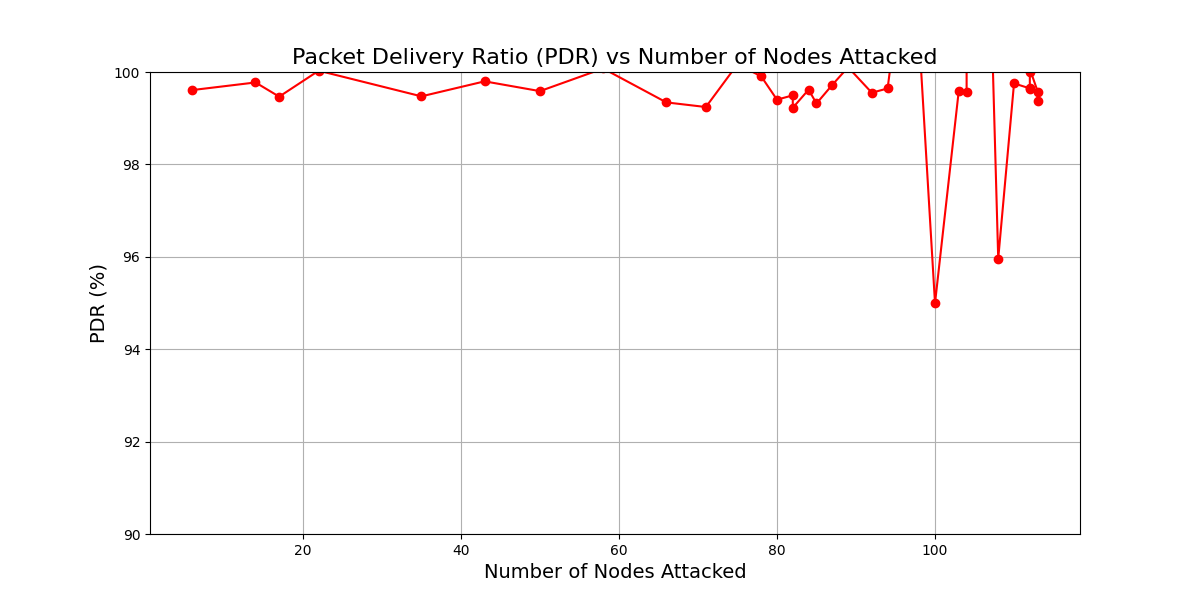
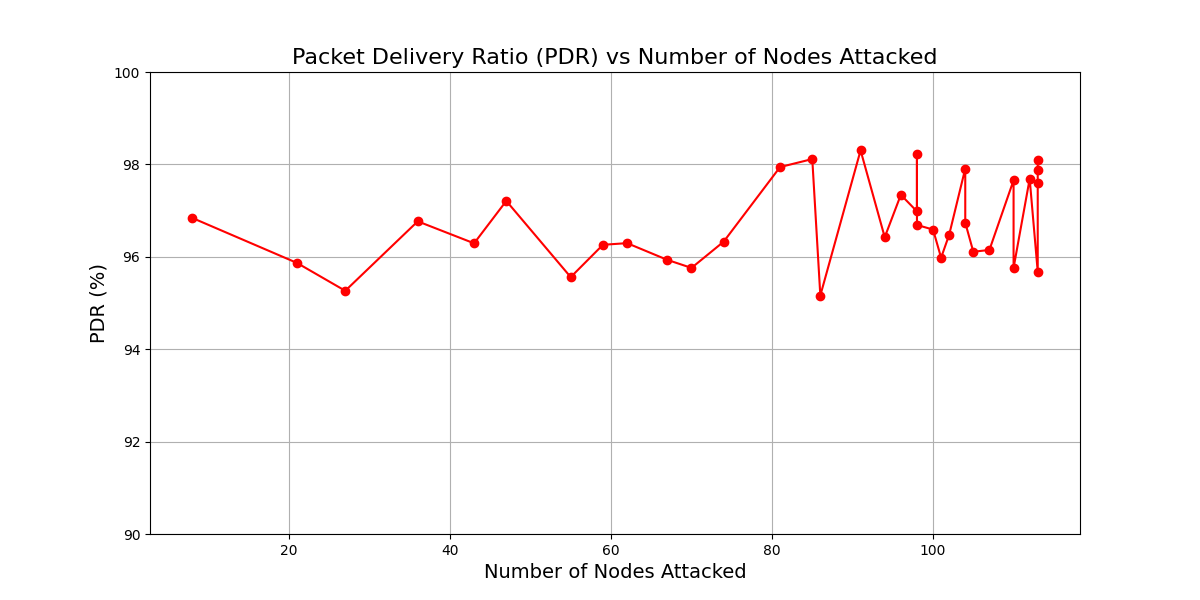
th tests

diff --git a/th_tester.py b/th_tester.py
@@ -1,15 +1,11 @@
-import networkx as nx
-import matplotlib.pyplot as plt
-import random
-from queue import PriorityQueue
-import os
-from mpl_toolkits.mplot3d import Axes3D
-import argparse
 import numpy as np
+import matplotlib.pyplot as plt
+from mpl_toolkits.mplot3d import Axes3D
+import os
+from queue import PriorityQueue
+import random
 
-from graph_helpers import read_adjacency_matrices, find_shortest_path, visualize_domains, deactivate_node, calculate_packet_delivery_ratio, find_node_disjoint_path, add_node_disjoint_path
-
-plt.switch_backend('TkAgg')
+from graph_helpers import read_adjacency_matrices, find_shortest_path, deactivate_node, calculate_packet_delivery_ratio, find_node_disjoint_path, add_node_disjoint_path
 
 def run_simulation(file_path, start_node, destination_node, duration, num_attacks, th_1=98.0, decrease_range=(1, 10), test_nodes=None):
     network_graph = read_adjacency_matrices(file_path)
@@ -28,7 +24,7 @@ def run_simulation(file_path, start_node, destination_node, duration, num_attack
 
     for t in range(duration):
         print(f"Attack #{t // attacks_per_interval + 1}")
-        
+
         # Attack a specified set of nodes if test_nodes is set, otherwise choose randomly
         if t % attacks_per_interval == 0:
             if test_nodes and t // attacks_per_interval < len(test_nodes):
@@ -48,8 +44,7 @@ def run_simulation(file_path, start_node, destination_node, duration, num_attack
             new_pdr = calculate_packet_delivery_ratio(network_graph, [initial_path])
             new_pdr = initial_pdr - (initial_pdr - new_pdr)
             new_pdr2 = None
-
-            if new_pdr < th_1:
+            if new_pdr < th_1: # this is wrongggggggggggggggggggg!!!!!!!!!!!
                 current_paths, initial_pdr, new_pdr2 = adapt_to_attack(network_graph, start_node, destination_node, current_paths, th_1, new_pdr)
 
             if not current_paths.empty():
@@ -59,6 +54,8 @@ def run_simulation(file_path, start_node, destination_node, duration, num_attack
 
         # Record PDR value at each second
         pdr_values_time.append(new_pdr)
+        # if new_pdr2:
+        #     pdr_values_time.append(new_pdr2)
 
         # Record PDR value after each attack based on the number of attacked nodes
         if t % attacks_per_interval == 0:
@@ -70,8 +67,8 @@ def adapt_to_attack(graph, start_node, destination_node, current_paths, th_1, ne
     paths = []
     while not current_paths.empty():
         paths.append(current_paths.get()[1])    
-
-    if new_pdr < th_1:
+    
+    while new_pdr < th_1:
         new_path = find_node_disjoint_path(graph, start_node, destination_node, paths[0])
         if new_path:
             paths[-1] = new_path
@@ -87,65 +84,12 @@ def adapt_to_attack(graph, start_node, destination_node, current_paths, th_1, ne
                 print(f"Added path: {path} new_pdr: {new_pdr}")
             print(current_paths.qsize())
         
+        if new_pdr >= th_1:
+            break
 
     return current_paths, new_pdr, new_pdr
 
-def plot_pdr_over_time(pdr_values, num_nodes):
-    x_values = list(range(len(pdr_values)))
-    
-    plt.figure(figsize=(12, 6))
-    plt.plot(x_values, pdr_values, marker='o', linestyle='-', color='b')
-    plt.title('Packet Delivery Ratio (PDR) Over Time', fontsize=16)
-    plt.xlabel('Time (seconds)', fontsize=14)
-    plt.ylabel('PDR (%)', fontsize=14)
-    plt.ylim(90, 100)
-    plt.grid(True)
-    filename = f'results/pdr_over_time_{num_nodes}.png'
-    plt.savefig(filename)
-    #plt.show()
-
-def plot_pdr_vs_attacks(pdr_values_attack, num_nodes):
-    attacked_nodes, pdr_values = zip(*pdr_values_attack)
-    plt.figure(figsize=(12, 6))
-    plt.plot(attacked_nodes, pdr_values, marker='o', linestyle='-', color='r')
-    plt.title('Packet Delivery Ratio (PDR) vs Number of Nodes Attacked', fontsize=16)
-    plt.xlabel('Number of Nodes Attacked', fontsize=14)
-    plt.ylabel('PDR (%)', fontsize=14)
-    plt.ylim(90, 100)
-    plt.grid(True)
-    filename = f'results/pdr_vs_attacks_{num_nodes}.png'
-    plt.savefig(filename)
-    #plt.show()
-
-
-def plot_3d_pdr_vs_time_and_attacks(pdr_values_time, pdr_values_attack, num_nodes):
-    fig = plt.figure(figsize=(12, 8))
-    ax = fig.add_subplot(111, projection='3d')
-    pdr_values_time = pdr_values_time[:-1]
-    time_values = list(range(len(pdr_values_time)))
-    attacked_nodes, pdr_values_attacked = zip(*pdr_values_attack)
-    
-    # Ensure both arrays are of the same length
-    if len(time_values) > len(attacked_nodes):
-        attacked_nodes = list(attacked_nodes) + [attacked_nodes[-1]] * (len(time_values) - len(attacked_nodes))
-        pdr_values_attacked = list(pdr_values_attacked) + [pdr_values_attacked[-1]] * (len(time_values) - len(attacked_nodes))
-    elif len(time_values) < len(attacked_nodes):
-        time_values = time_values + [time_values[-1]] * (len(attacked_nodes) - len(time_values))
-        pdr_values_time = pdr_values_time + [pdr_values_time[-1]] * (len(attacked_nodes) - len(time_values))
-
-    ax.plot(time_values, attacked_nodes, pdr_values_time, marker='o', linestyle='-', color='b', label='PDR over Time')
-    ax.plot(time_values, attacked_nodes, pdr_values_attacked, marker='x', linestyle='--', color='r', label='PDR vs Attacks')
-    
-    ax.set_title('3D Plot of PDR over Time and Number of Nodes Attacked', fontsize=16)
-    ax.set_xlabel('Time (seconds)', fontsize=14)
-    ax.set_ylabel('Number of Nodes Attacked', fontsize=14)
-    ax.set_zlabel('PDR (%)', fontsize=14)
-    ax.legend()
-    filename = f'results/pdr_vs_time_vs_attacks_{num_nodes}.png'
-    plt.savefig(filename)
-    #plt.show()
-    
-def plot_3d_thresholds_pdr_time(thresholds, pdr_values_time, duration, num_nodes):
+def plot_3d_thresholds_pdr_time(thresholds, pdr_values_time, duration):
     fig = plt.figure(figsize=(12, 8))
     ax = fig.add_subplot(111, projection='3d')
     
@@ -158,34 +102,16 @@ def plot_3d_thresholds_pdr_time(thresholds, pdr_values_time, duration, num_nodes
     ax.set_xlabel('Time (seconds)', fontsize=14)
     ax.set_ylabel('Threshold (th_1)', fontsize=14)
     ax.set_zlabel('PDR (%)', fontsize=14)
-    filename = f'results/pdr_vs_thresh_vs_time_{num_nodes}.png'
-    plt.savefig(filename)
+    
     plt.show()
 
-
-def save_results():
-    if not os.path.exists('results'):
-        os.makedirs('results')
-
-if __name__ == "__main__":
-    parser = argparse.ArgumentParser(description="Run network simulation.")
-    parser.add_argument("--th_1", type=float, default=98.0, help="Threshold value for PDR")
-    args = parser.parse_args()
-
-    th_1 = args.th_1
-    num_nodes = '120'
-    file_path = f'Test_data/MKU_files/internetworks/adjacency_{num_nodes}_0_7_1_updated.txt'
-    start_node = 0  
+def main():
+    file_path = 'Test_data/MKU_files/internetworks/adjacency_120_0_7_1_updated.txt'
+    start_node = 0
     destination_node = 65
     duration = 35
     num_attacks = 35
-    #test_nodes = [[11, 39],]
-    #run_simulation(file_path, start_node, destination_node, duration, num_attacks, th_1)
-    
-    
-    # th testing: 
     thresholds = [1, 2, 3, 4, 5]
-    thresholds = [100 - t for t in thresholds]
 
     pdr_values_time = []
 
@@ -193,4 +119,7 @@ if __name__ == "__main__":
         pdr_values = run_simulation(file_path, start_node, destination_node, duration, num_attacks, th_1)
         pdr_values_time.append(pdr_values)
 
-    plot_3d_thresholds_pdr_time(thresholds, pdr_values_time, duration, num_nodes)
+    plot_3d_thresholds_pdr_time(thresholds, pdr_values_time, duration)
+
+if __name__ == "__main__":
+    main()

diff --git a/graph_helpers.py b/graph_helpers.py
@@ -146,10 +146,7 @@ def calculate_packet_delivery_ratio(graph, paths):
         
         total_pdr += path_pdr
     
-    return total_pdr / num_paths if num_paths else 100
-    
-    # Return average PDR across all paths, defaulting to 100 if no paths
-    return total_pdr / num_paths if num_paths else 100
+    return min(total_pdr / num_paths if num_paths else 100, 100)
 
 
 def find_node_disjoint_path(graph, start_node, destination_node, exclude_nodes):
